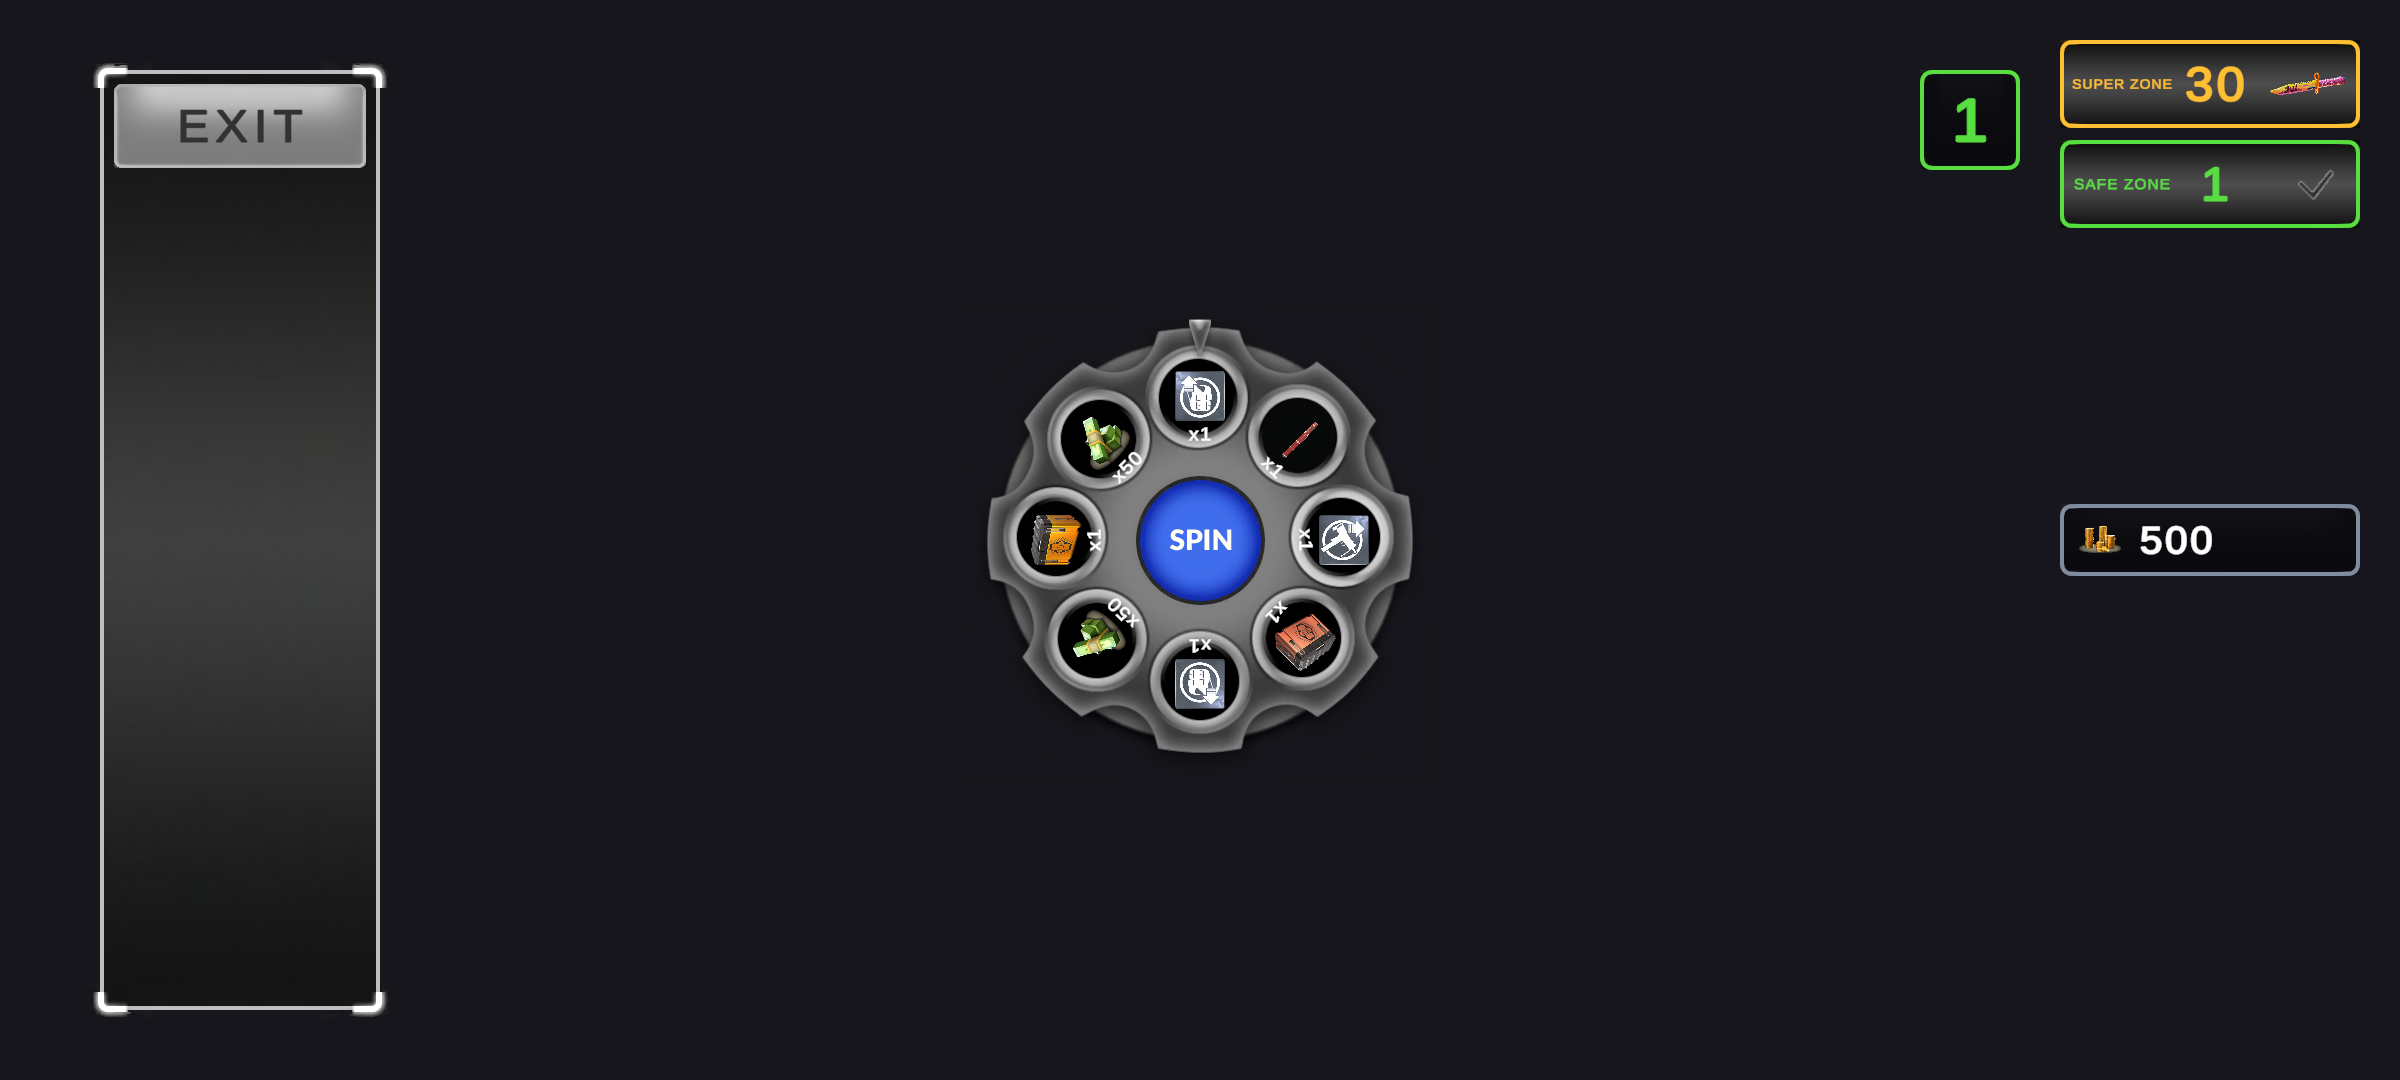
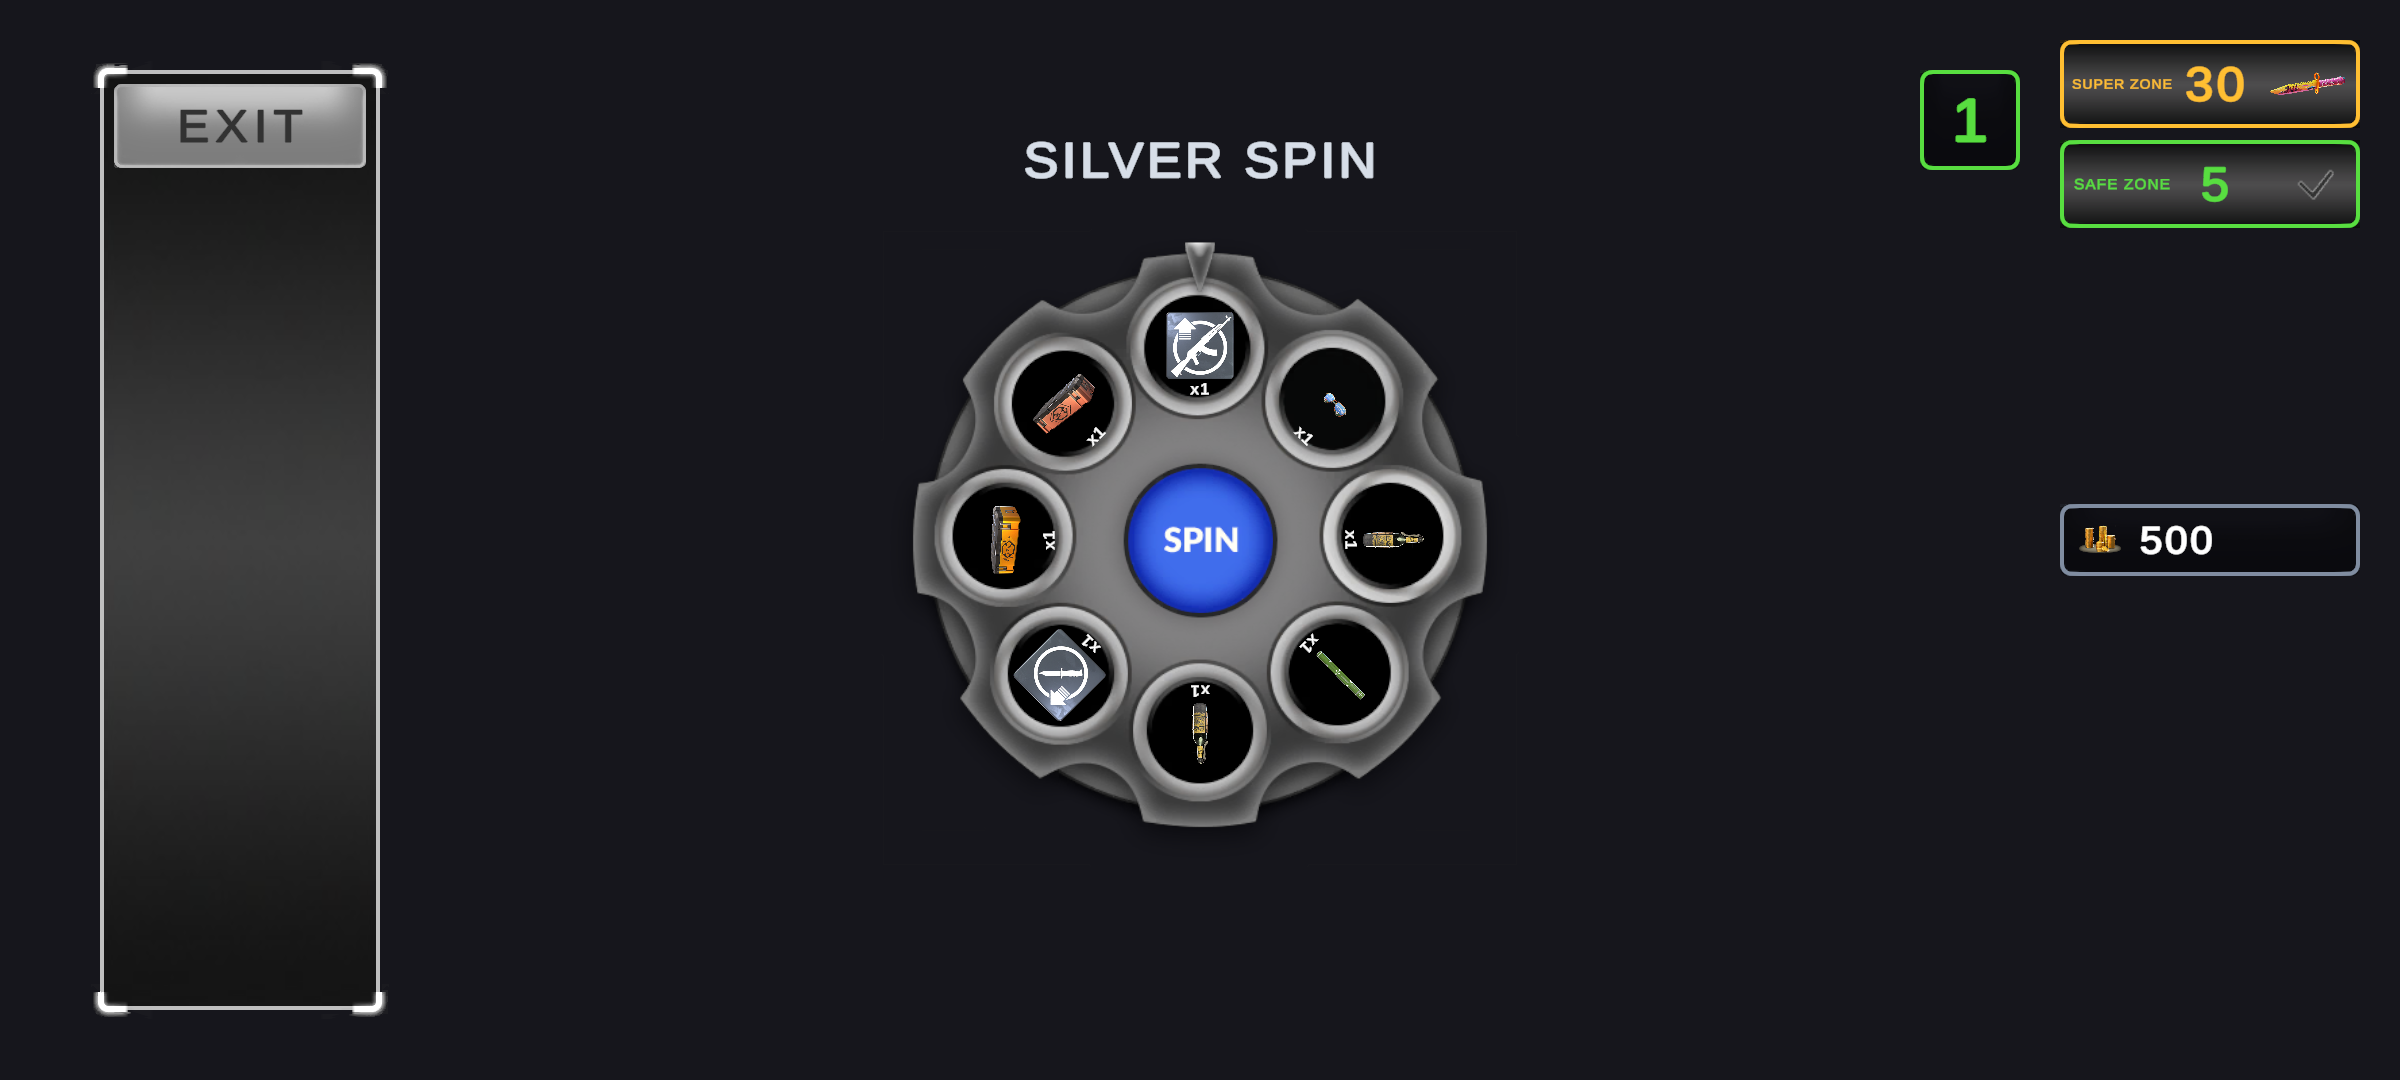
refactor: update readme

Changed region(s): [[0.375, 0.2139, 0.625, 0.7639], [0.4062, 0.1222, 0.5938, 0.1833], [0.9062, 0.1528, 0.9375, 0.1833]]

diff --git a/README.md b/README.md
@@ -4,7 +4,7 @@
 
 ## Video
 
-[**Watch the gameplay video**](https://drive.google.com/file/d/1F6EvGE_bxK7qtbxdDJT4ts6WxUYiWMkX/view?usp=sharing)
+[**Watch the gameplay video**](https://we.tl/t-CT59seD4TrJDOLYk)
 
 The video has text on it for the zone override and the next zone hint.
 
